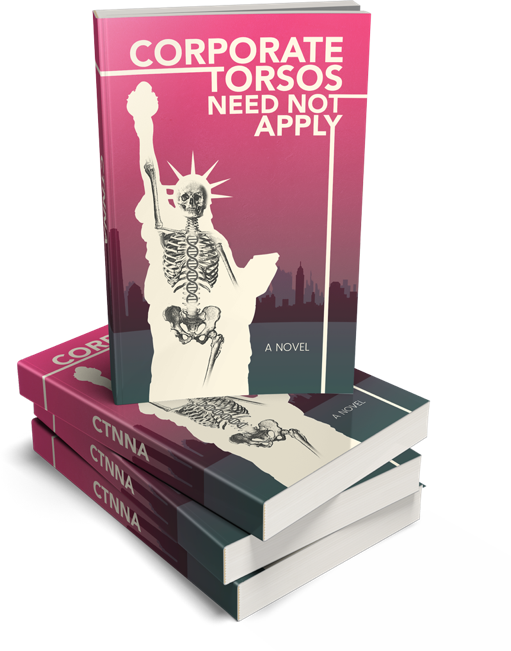
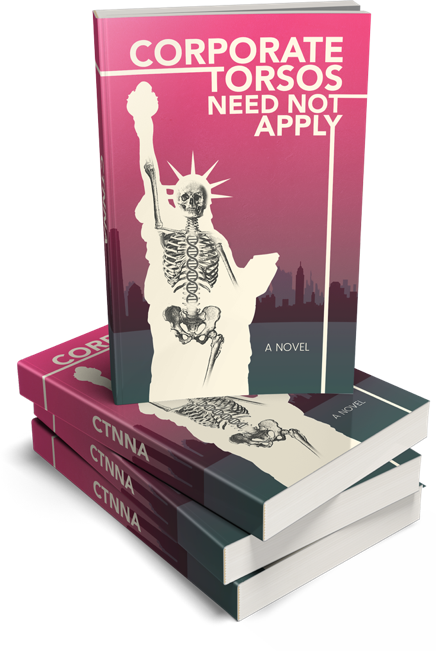
Responsive as Fuuuuuuu
Plus fixed some images, added CSS Octopress Prefixer

diff --git a/_layouts/default.html b/_layouts/default.html
@@ -4,7 +4,7 @@
     <div class="row">
         <div class="col-md-12">
             <h1 class="special">{{ site.data.global.title }}</h1>
-            <img alt="" src="{{ site.data.global.url }}/img/mribirb.svg" />
+            <img class="bird" alt="" src="{{ site.data.global.url }}/img/mribirb.svg" />
             <h2>{{ site.data.global.description }}</h2>
             <a href="http://surveymonkey.com/r/?sm=0vB_2BqyAjbGrAkCTZbKnnqw_3D_3D" target="_blank">
                 <button type="button" class="btn btn-primary btn-lg">Take Free Survey</button>
@@ -18,45 +18,53 @@
     </div>
 </div>
 
+
 <main>
     <div class="container">
        
+        <hr />
+        
         <div id="valueprop" class="row">
-            <div class="col-md-4">
+            <div class="col-sm-4">
                 <img alt="" src="{{ site.data.global.url }}/img/headsetapps.svg" />
                 <h3>Headset Apps</h3>
                 <p>MRI’s enjoyable headset applications release dopamine. Removing your headset makes you less attractive.</p>
             </div>
-            <div class="col-md-4">
+            <div class="col-sm-4">
                 <img alt="" src="{{ site.data.global.url }}/img/heretohelp.svg" />
                 <h3>Here to Help</h3>
                 <p>MRI researches the public because it cares deeply about important humanitarian causes. We are here to help.</p>
             </div>
-            <div class="col-md-4">
+            <div class="col-sm-4">
                 <img alt="" src="{{ site.data.global.url }}/img/isolationnation.svg" />
                 <h3>Isolation Nation</h3>
                 <p>Since the flood of 2018 we must all remain together for safety.  Stay connected and avoid dying cold and alone.</p>
             </div>
         </div>
         
+        <hr />
+        
         <div id="hello" class="row">
-            <div class="col-md-6 col-md-offset-1">
+            <div class="col-sm-6 col-sm-offset-3 col-md-3 col-md-offset-1 col-md-push-7">
+                <img class="responsive" alt="" src="{{ site.data.global.url }}/img/mrilogo.svg" />
+            </div>
+            <div class="col-sm-10 col-sm-offset-1 col-md-offset-0 col-md-6 col-md-pull-3">
                 <h2>Hello</h2>
                 <p>MRI is not interested in your arms, legs, liver, spleen, or duodenum.  We are interested in market research. Take the brief survey below to alert us to the condition of your vessel.</p>   
                 <a href="http://surveymonkey.com/r/?sm=0vB_2BqyAjbGrAkCTZbKnnqw_3D_3D" target="_blank">
                     <button type="button" class="btn btn-primary btn-lg">Take Free Survey</button>
                 </a>
             </div>
-            <div class="col-md-2 col-md-offset-1">
-                <img alt="" src="{{ site.data.global.url }}/img/mrilogo.svg" />
-            </div>
+
         </div>
 
+        <hr class="" />
+        
         <div id="statue" class="row">
-            <div class="col-md-6 col-md-offset-1">
-                    <img class="statue" alt="" src="{{ site.data.global.url }}/img/liberty.jpg" />
+            <div class="col-md-5 col-md-offset-1">
+                    <img class="statue responsive hidden-xs hidden-sm" alt="" src="{{ site.data.global.url }}/img/liberty.jpg" />
             </div>
-            <div class="col-md-5">
+            <div class="col-sm-10 col-sm-offset-1 col-md-5">
                 <h2>About US</h2>
                 <p>Oz, left to himself, smiled to think of his success in giving the Scarecrow and the Tin Woodman and the Lion exactly what they thought they wanted.  “How can I help being a humbug,” he said, “when all these people make me do things that everybody knows can’t be done?  It was easy to make the Scarecrow and the Lion and the Woodman happy, because they imagined I could do anything.  But it will take more than imagination to carry Dorothy back to Kansas, and I’m sure I don’t know how it can be done.” For three days Dorothy heard nothing from Oz.</p>
             </div>
@@ -92,8 +100,8 @@
                 <img class="spinal" alt="" src="{{ site.data.global.url }}/img/spinal.jpg" />
 
                 <div class="alert">
-                    <img class="" alt="" src="{{ site.data.global.url }}/img/mrilogo.svg" />
-                    <code>Order 383727:<br />Asset JQ3992 data breach in Newark sector<br />Recommend Terminate JQ3992 immediately</code>
+                        <img class="responsive" alt="" src="{{ site.data.global.url }}/img/mrilogo.svg" />
+                        <code>Order 383727:<br />Asset JQ3992 data breach in Newark sector<br />Recommend Terminate JQ3992 immediately</code>
                 </div>
 
             </div>
@@ -105,14 +113,19 @@
     <div id="book">
         <div class="container">
             <div class="row">
-                <div class="col-md-7">
+               
+                <div class="col-xs-12 col-sm-10 col-sm-offset-1 col-md-4 col-md-offset-0 col-md-push-8 mobile-center">
+                    <img class="photos responsive" alt="" src="{{ site.data.global.url }}/img/ctnnamockup.png" />
+                </div>
+                
+                <div class="col-sm-10 col-sm-offset-1 col-md-7 col-md-offset-0 col-md-pull-4 mobile-center" >
                     <div class="copy">
                         <h2>Coming Soon</h2>
                         <p>At this point users should be figuring out exactly what’s up and it might be time to just come out and be like hey it’s a book check it out order preorder the damn book already.</p>
                         <h3>Available Early 2017</h3>
                     </div>
                   
-                    <div class="preorderform">
+                    <div class="preorderform mobile-center">
                         <p>Notify me when the preorder becomes available:</p>
                         
                         <div id="mc_embed_signup"><!-- Begin MailChimp Signup Form -->
@@ -140,9 +153,8 @@
                         <a href="https://twitter.com/CorporateTorsos" target="_blank"><i class="fa fa-twitter"></i></a>
                     </div>
                 </div>
-                <div class="col-md-5">
-                    <img class="photos" alt="" src="{{ site.data.global.url }}/img/ctnnamockup.png" />
-                </div>
+
+                
             </div>
         </div>
     </div>

diff --git a/css/style.scss b/css/style.scss
@@ -12,6 +12,7 @@ $offwhite:#FCF6E0;
 $white: #F2F2F0;
 $pink:#EE4C80;
 $grey:#80847A;
+$darkgrey: #686359;
 $maroon: #702B42;
 
 %raleway { font-family: 'Raleway', sans-serif; }
@@ -21,7 +22,6 @@ body {
     @extend %raleway;
     font-size: 14px;
     line-height: 30px;
-    padding-top: 51px;
     -webkit-font-smoothing: antialiased;
     background: $black;
     color:$white;
@@ -106,12 +106,24 @@ h4 {
     &:hover {color:$pink;}
 }
 
+.responsive {width:100%;}
+
+.center {text-align:center;}
+
+hr {    
+    border: 0;
+    height: 2px;
+    background-image: linear-gradient(to right, $black, #222, $black);
+}
+
+
+//    The real stuff
+
 
 .title-group {
     text-align: center;
     padding: 0 15px 80px;
-    margin: 60px auto 0;
-    border-bottom:4px solid $grey;
+    margin: 100px auto 0;
     
     h1 {
         margin: 0 0 80px;
@@ -135,13 +147,15 @@ h4 {
 
 #valueprop {
     text-align:center;
-    padding:100px 0;
-    border-bottom:4px solid $grey;
+    padding:80px 0 40px;
     p {padding:0 40px;}
     img {margin-bottom:20px;}
 }
 
-#hello {padding:100px 0;}
+#hello {
+    padding:80px 0;
+    img {margin-bottom:40px;}
+}
 
 #statue {padding:100px 0 0;
     
@@ -177,12 +191,12 @@ h4 {
     .spinal {margin-top:880px; position:relative; left:60%;}
     .alert {
         margin:800px auto 300px; 
-        width:600px; 
         position:relative;
-        left:100px;
         transform: rotate(-3deg);
         text-align:center;
-        img {display:block; margin:0 auto;}
+        width:50%;
+        max-width:300px;
+        img {display:block; margin:0 auto; width:50%;}
         code {display:block;background:none;}
     }
 }
@@ -244,7 +258,46 @@ footer {
 }
 
 @media only screen and (max-width : 991px) {
-}
+    
+    #hello {
+        padding: 60px 0; 
+        text-align:center; 
+        img {width:50%;}
+    }    
+    #statue { padding: 40px 0 80px;
+        p {padding-right:0;}
+    }
+
+    .mobile-center {text-align:center;}
+    
+    .responsive {width:65%;}
+
+    #book img {margin-bottom:40px;}
+    #book .preorderform .btn-primary {float:none; margin:10px auto;}
+}   
 
 @media only screen and (max-width : 480px) {
+    
+    h1 {font-size:30px;}
+    h2 {font-size:20px;}
+
+    .responsive {width:75%;}
+        
+    .title-group {
+        h1 {margin-bottom:60px;}
+        img {width:45%; margin-bottom:60px;}
+    }
+    
+        #valueprop {
+        padding:40px 0;
+        img {width:30%;}
+        p {padding:0 20px 40px;}
+    }
+    
+    #fakefooter .alert {
+        width:95%;
+        left:160px;
+            
+    }
+    
 }

diff --git a/_includes/header.html b/_includes/header.html
@@ -8,30 +8,7 @@
 
     <!-- Meta -->
     <meta charset="utf-8">
-    <!--
-      /$$$$$$                        /$$               /$$
-     /$$__  $$                      | $$              | $$
-    | $$  \__/  /$$$$$$$  /$$$$$$  /$$$$$$    /$$$$$$$| $$$$$$$
-    |  $$$$$$  /$$_____/ /$$__  $$|_  $$_/   /$$_____/| $$__  $$
-     \____  $$| $$      | $$  \ $$  | $$    | $$      | $$  \ $$
-     /$$  \ $$| $$      | $$  | $$  | $$ /$$| $$      | $$  | $$
-    |  $$$$$$/|  $$$$$$$|  $$$$$$/  |  $$$$/|  $$$$$$$| $$  | $$
-     \______/  \_______/ \______/    \___/   \_______/|__/  |__/
 
-
-
-        /$$$$$           /$$                 /$$ /$$
-       |__  $$          | $$                | $$| $$
-          | $$  /$$$$$$ | $$   /$$ /$$   /$$| $$| $$
-          | $$ /$$__  $$| $$  /$$/| $$  | $$| $$| $$
-     /$$  | $$| $$$$$$$$| $$$$$$/ | $$  | $$| $$| $$
-    | $$  | $$| $$_____/| $$_  $$ | $$  | $$| $$| $$
-    |  $$$$$$/|  $$$$$$$| $$ \  $$|  $$$$$$$| $$| $$
-     \______/  \_______/|__/  \__/ \____  $$|__/|__/
-                                   /$$  | $$
-                                  |  $$$$$$/
-                                   \______/
-    -->
     <title>{% if page.title %}{{ page.title }} ♥ {{ site.data.global.title }}{% elsif post.title %}{{ post.title }} ♥ {{ site.data.global.title }}{% else %}{{ site.data.global.title }} ♥ {{ site.data.global.description }}{% endif %}</title>
     <meta http-equiv="X-UA-Compatible" content="IE=edge,chrome=1">
     <meta name="viewport" content="width=device-width, initial-scale=1.0, maximum-scale=1.0">
